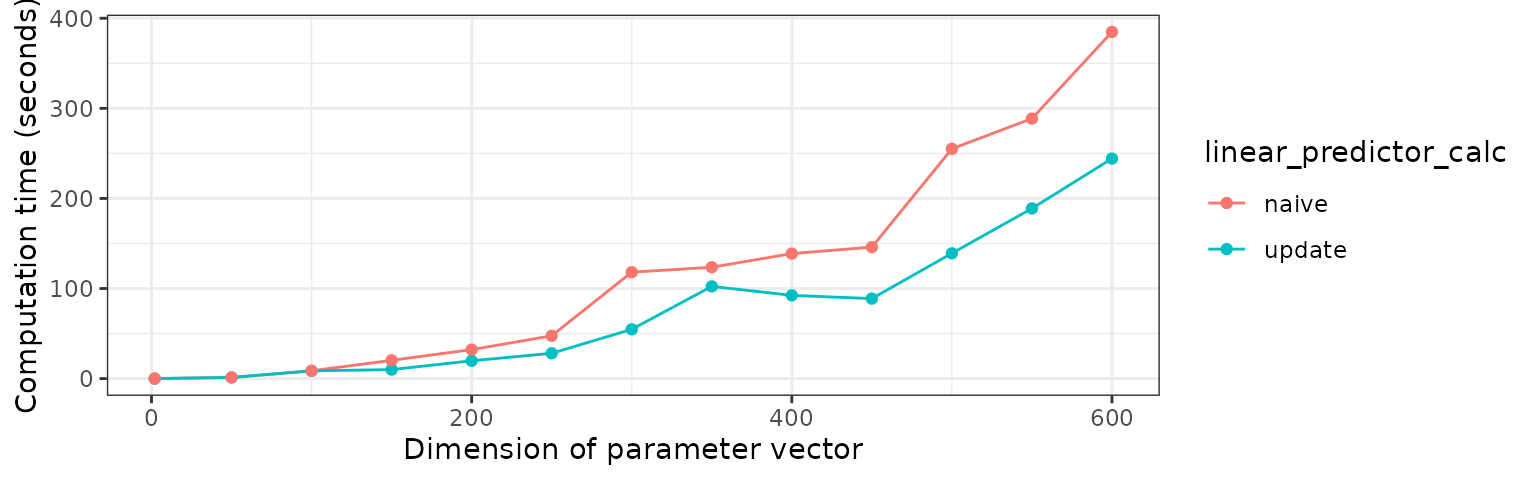
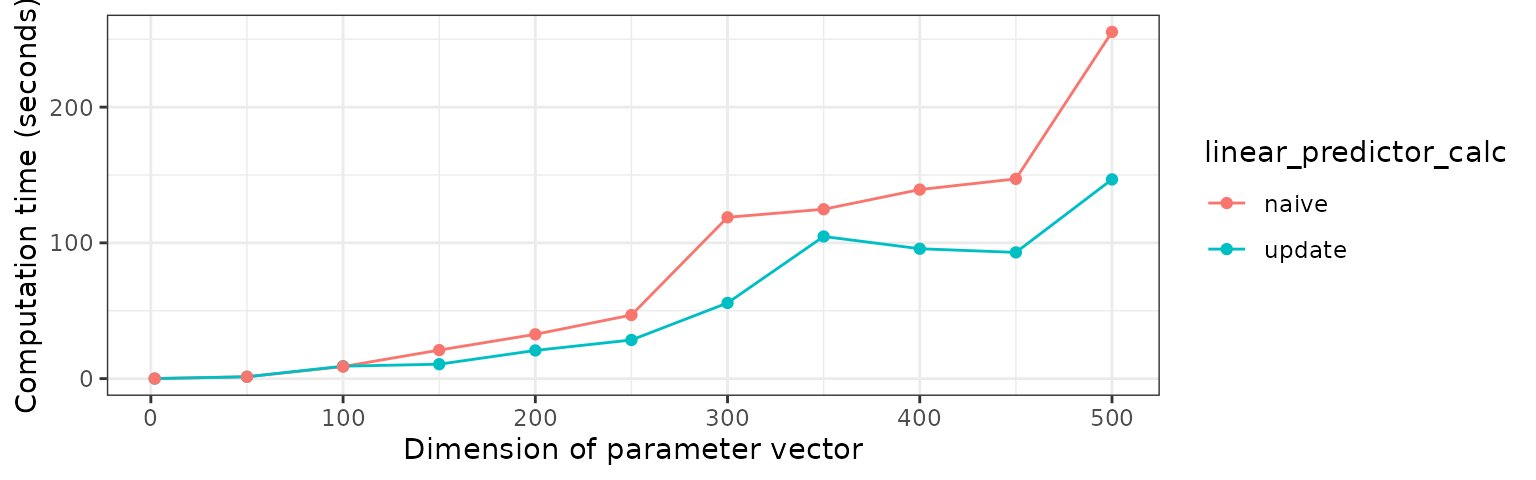
Deploying to gh-pages from @ mathiaslj/mcmcglm@f8328d22fa4f167b5a3df9718cc3fd132e506ecb 🚀

diff --git a/reference/plot_mcmcglm_across_tuningparams.html b/reference/plot_mcmcglm_across_tuningparams.html
@@ -85,11 +85,13 @@ a call to <a href="mcmcglm_across_tuningparams.html">mcmcglm_across_tuningparams
 <span class="r-in"><span>   family <span class="op">=</span> <span class="st">"gaussian"</span>,</span></span>
 <span class="r-in"><span>   data <span class="op">=</span> <span class="va">dat_norm</span></span></span>
 <span class="r-in"><span><span class="op">)</span></span></span>
-<span class="r-msg co"><span class="r-pr">#&gt;</span> Sampling from posterior <span style="color: #00BB00;">■■■■■■■■■■■■■■■■                </span>  49% | ETA:  1s</span>
+<span class="r-msg co"><span class="r-pr">#&gt;</span> Sampling from posterior <span style="color: #00BB00;">■■■■■■■■■■■■■■■                 </span>  47% | ETA:  1s</span>
 <span class="r-msg co"><span class="r-pr">#&gt;</span> Sampling from posterior <span style="color: #00BB00;">■■■■■■■■■■■■■■■■■■■■■■■■■■■■■■■ </span> 100% | ETA:  0s</span>
-<span class="r-msg co"><span class="r-pr">#&gt;</span> Sampling from posterior <span style="color: #00BB00;">■■■■■■■■■■■■■■■■■■■■■■■■■■■■■   </span>  94% | ETA:  0s</span>
+<span class="r-msg co"><span class="r-pr">#&gt;</span> Sampling from posterior <span style="color: #00BB00;">■■■■■■■■■■■■■■■                 </span>  47% | ETA:  1s</span>
 <span class="r-msg co"><span class="r-pr">#&gt;</span> Sampling from posterior <span style="color: #00BB00;">■■■■■■■■■■■■■■■■■■■■■■■■■■■■■■■ </span> 100% | ETA:  0s</span>
-<span class="r-msg co"><span class="r-pr">#&gt;</span> Sampling from posterior <span style="color: #00BB00;">■■■■■■■■■■■■■■                  </span>  44% | ETA:  1s</span>
+<span class="r-msg co"><span class="r-pr">#&gt;</span> Sampling from posterior <span style="color: #00BB00;">■■■■■■■■■■■■■■■■■■■■■■■■■■■     </span>  87% | ETA:  0s</span>
+<span class="r-msg co"><span class="r-pr">#&gt;</span> Sampling from posterior <span style="color: #00BB00;">■■■■■■■■■■■■■■■■■■■■■■■■■■■■■■■ </span> 100% | ETA:  0s</span>
+<span class="r-msg co"><span class="r-pr">#&gt;</span> Sampling from posterior <span style="color: #00BB00;">■■■■■■■■■■■■■■■■■■■■■■■■■■■■■■  </span>  98% | ETA:  0s</span>
 <span class="r-msg co"><span class="r-pr">#&gt;</span> Sampling from posterior <span style="color: #00BB00;">■■■■■■■■■■■■■■■■■■■■■■■■■■■■■■■ </span> 100% | ETA:  0s</span>
 <span class="r-in"><span></span></span>
 <span class="r-in"><span><span class="fu">plot_mcmcglm_across_tuningparams</span><span class="op">(</span><span class="va">w05_mcmcglms</span><span class="op">)</span></span></span>

diff --git a/reference/compare_eta_comptime_across_nvars.html b/reference/compare_eta_comptime_across_nvars.html
@@ -146,14 +146,14 @@ than the number of available cores</p></dd>
 <span class="r-in"><span>                                  n_samples <span class="op">=</span> <span class="fl">1</span>,</span></span>
 <span class="r-in"><span>                                  burnin <span class="op">=</span> <span class="fl">0</span><span class="op">)</span></span></span>
 <span class="r-out co"><span class="r-pr">#&gt;</span>              time linear_predictor_calc n_vars n_samples beta_mean</span>
-<span class="r-out co"><span class="r-pr">#&gt;</span> 1 0.01476502 secs                update      2         1         0</span>
-<span class="r-out co"><span class="r-pr">#&gt;</span> 2 0.01663566 secs                 naive      2         1         0</span>
-<span class="r-out co"><span class="r-pr">#&gt;</span> 3 0.43008637 secs                update     20         1         0</span>
-<span class="r-out co"><span class="r-pr">#&gt;</span> 4 0.20615482 secs                 naive     20         1         0</span>
-<span class="r-out co"><span class="r-pr">#&gt;</span> 5 0.82726479 secs                update     40         1         0</span>
-<span class="r-out co"><span class="r-pr">#&gt;</span> 6 1.37210488 secs                 naive     40         1         0</span>
-<span class="r-out co"><span class="r-pr">#&gt;</span> 7 1.67062664 secs                update     60         1         0</span>
-<span class="r-out co"><span class="r-pr">#&gt;</span> 8 1.62812662 secs                 naive     60         1         0</span>
+<span class="r-out co"><span class="r-pr">#&gt;</span> 1 0.01716685 secs                update      2         1         0</span>
+<span class="r-out co"><span class="r-pr">#&gt;</span> 2 0.02163410 secs                 naive      2         1         0</span>
+<span class="r-out co"><span class="r-pr">#&gt;</span> 3 0.46144390 secs                update     20         1         0</span>
+<span class="r-out co"><span class="r-pr">#&gt;</span> 4 0.20999956 secs                 naive     20         1         0</span>
+<span class="r-out co"><span class="r-pr">#&gt;</span> 5 0.84110141 secs                update     40         1         0</span>
+<span class="r-out co"><span class="r-pr">#&gt;</span> 6 1.39404273 secs                 naive     40         1         0</span>
+<span class="r-out co"><span class="r-pr">#&gt;</span> 7 1.70097470 secs                update     60         1         0</span>
+<span class="r-out co"><span class="r-pr">#&gt;</span> 8 1.65817809 secs                 naive     60         1         0</span>
 <span class="r-out co"><span class="r-pr">#&gt;</span>   beta_variance   family sd                 qslice_fun   w parallelised</span>
 <span class="r-out co"><span class="r-pr">#&gt;</span> 1             1 gaussian  1 qslice::slice_stepping_out 0.5        FALSE</span>
 <span class="r-out co"><span class="r-pr">#&gt;</span> 2             1 gaussian  1 qslice::slice_stepping_out 0.5        FALSE</span>

diff --git a/articles/performance.html b/articles/performance.html
@@ -85,7 +85,7 @@ computation for each coordinate update. For this purpose, the function
 call is:</p>
 <div class="sourceCode" id="cb1"><pre class="downlit sourceCode r">
 <code class="sourceCode R"><span><span class="va">res</span> <span class="op">&lt;-</span> <span class="fu"><a href="../reference/compare_eta_comptime_across_nvars.html">compare_eta_comptime_across_nvars</a></span><span class="op">(</span></span>
-<span>  n_vars <span class="op">=</span> <span class="fu"><a href="https://rdrr.io/r/base/c.html" class="external-link">c</a></span><span class="op">(</span><span class="fl">2</span>, <span class="fu"><a href="https://rdrr.io/r/base/seq.html" class="external-link">seq</a></span><span class="op">(</span>from <span class="op">=</span> <span class="fl">50</span>, to <span class="op">=</span> <span class="fl">600</span>, by <span class="op">=</span> <span class="fl">50</span><span class="op">)</span><span class="op">)</span>,</span>
+<span>  n_vars <span class="op">=</span> <span class="fu"><a href="https://rdrr.io/r/base/c.html" class="external-link">c</a></span><span class="op">(</span><span class="fl">2</span>, <span class="fu"><a href="https://rdrr.io/r/base/seq.html" class="external-link">seq</a></span><span class="op">(</span>from <span class="op">=</span> <span class="fl">50</span>, to <span class="op">=</span> <span class="fl">500</span>, by <span class="op">=</span> <span class="fl">50</span><span class="op">)</span><span class="op">)</span>,</span>
 <span>  n_samples <span class="op">=</span> <span class="fl">1</span>,</span>
 <span>  burnin <span class="op">=</span> <span class="fl">0</span>,</span>
 <span>  w <span class="op">=</span> <span class="fl">0.5</span><span class="op">)</span></span></code></pre></div>
